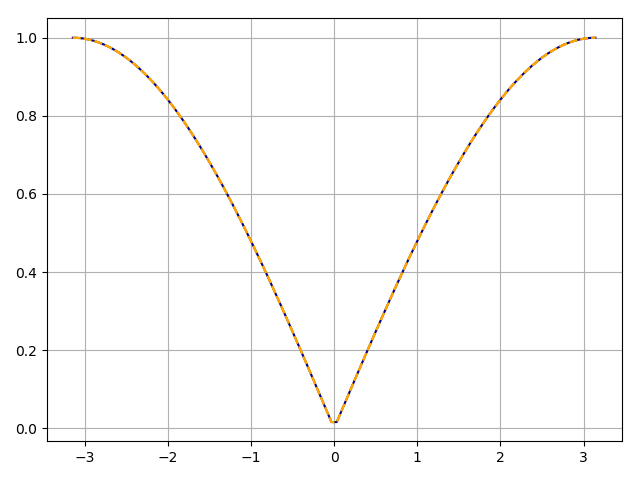
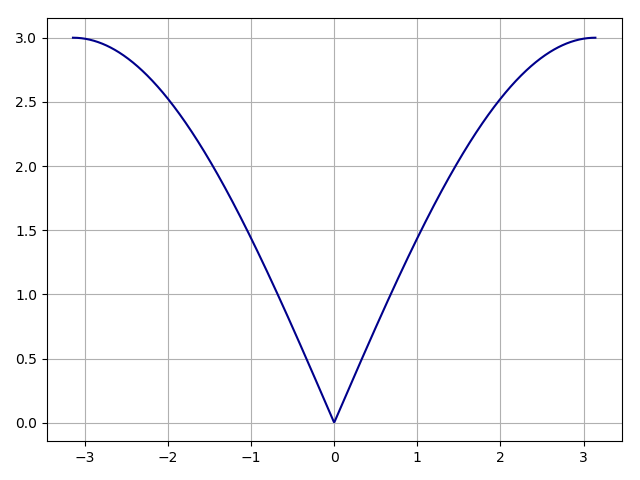
Restructured magnonpolarons_with_base without changing results.

diff --git a/examples/magnonpolarons_with_base.py b/examples/magnonpolarons_with_base.py
@@ -18,7 +18,7 @@ os.chdir("..")
 # # # # # # # # # # # # # # # # # # # # # # # # # # # # # # # # # # # # # # # #
 # Constants
 # # # # # # # # # # # # # # # # # # # # # # # # # # # # # # # # # # # # # # # #
-N = 10  # number of sites per unit cell
+N = 8  # number of sites per unit cell
 a = 12.376e-10  # interatomic distance
 
 # phonon constants
@@ -36,7 +36,7 @@ S = 20
 J = 0.24
 Dz = 0
 Bz = np.zeros(N)
-Bz = 0.8 * np.ones(N)  # 1.314
+Bz = 2.2/(mu_B*g*S) * np.ones(N)  # 1.314
 
 # magnon polarons constants
 Dprime = np.array([[0.0, 0.0, 0.0],
@@ -61,7 +61,7 @@ num_k = 1000
 klim = [-np.pi/(N*a), np.pi/(N*a)]
 
 # positive Bz
-klim = [1e8, np.pi/(N*a)]
+klim = [1e7, np.pi/(N*a)]
 
 # zoom
 # klim = [1.15e9, 1.20e9]
@@ -71,6 +71,14 @@ klim = [1e8, np.pi/(N*a)]
 # main
 # # # # # # # # # # # # # # # # # # # # # # # # # # # # # # # # # # # # # # # #
 def main():
+    dispersion_relation()
+    # magnonPolarons_presence()
+
+
+# # # # # # # # # # # # # # # # # # # # # # # # # # # # # # # # # # # # # # # #
+# Routines
+# # # # # # # # # # # # # # # # # # # # # # # # # # # # # # # # # # # # # # # #
+def dispersion_relation():
     k_arr = np.linspace(*klim, num=num_k)
 
     dim = 16*N
@@ -107,8 +115,14 @@ def main():
     ax.set_xlim(klim)
     try:
         ax.set_ylim(ylim)
+        ax.text(0.97*klim[1], 0.97*ylim[1], "$B_z=%.3f$",
+            horizontalalignment='right', verticalalignment='top')
     except:
         ax.set_ylim(0, np.real(energies).max())
+        ax.text(0.97*klim[1], 0.97*np.real(energies).max(), "$B_z=%.3f$" % Bz[0],
+            horizontalalignment='right', verticalalignment='top',
+            bbox=dict(boxstyle='round', facecolor='white', alpha=1))
+
 
     fig.tight_layout()
     fig.savefig("img/mp_dispersion.png")
@@ -136,63 +150,61 @@ def main():
 def magnonPolarons_presence():
     global N, R, Bprime, Bz
 
-    num_arr = np.arange(2, 10)
-    B0_arr = np.linspace(0.1, .2, num=10)
+    num_arr = np.arange(2, 11)
+    B0_arr = np.linspace(0.1, 2, num=50)
 
     s = np.zeros((num_arr.shape[0], B0_arr.shape[0]))
-    try:
-        for c1, num_sites in enumerate(num_arr):
-            N = num_sites
-            R = a * np.arange(0, N)
-            Bprime = np.zeros((N, 3, 3*N))
-            for j in range(N):
-                Bprime[j,0,3*j] = 3e-9 * 2*np.pi/(N*a)*np.sin(2*np.pi/(N*a)*R[j])  # d(Bx)/dx
-                Bprime[j,1,3*j] = 0.0  # d(By)/dx
-                Bprime[j,2,3*j] = 0.0  # d(Bz)/dx
+    for c1, num_sites in enumerate(num_arr):
+        N = num_sites
+        R = a * np.arange(0, N)
+        Bprime = np.zeros((N, 3, 3*N))
+        for j in range(N):
+            Bprime[j,0,3*j] = 1e-8 * 2*np.pi/(N*a)*np.cos(2*np.pi/(N*a)*R[j])  # d(Bx)/dx
+            Bprime[j,1,3*j] = 0.0  # d(By)/dx
+            Bprime[j,2,3*j] = 0.0  # d(Bz)/dx
 
-                Bprime[j,0,3*j+1] = 0.0  # d(Bx)/dy
-                Bprime[j,1,3*j+1] = 0.0  # d(By)/dy
-                Bprime[j,2,3*j+1] = 0.0  # d(Bz)/dy
+            Bprime[j,0,3*j+1] = 0.0  # d(Bx)/dy
+            Bprime[j,1,3*j+1] = 0.0  # d(By)/dy
+            Bprime[j,2,3*j+1] = 0.0  # d(Bz)/dy
 
-                Bprime[j,0,3*j+2] = 0.0  # d(Bx)/dz
-                Bprime[j,1,3*j+2] = 0.0  # d(By)/dz
-                Bprime[j,2,3*j+2] = 0.0  # d(Bz)/dz
+            Bprime[j,0,3*j+2] = 0.0  # d(Bx)/dz
+            Bprime[j,1,3*j+2] = 0.0  # d(By)/dz
+            Bprime[j,2,3*j+2] = 0.0  # d(Bz)/dz
 
-            klim = [1e8, np.pi/(N*a)]
-            k_arr = np.linspace(*klim, num=num_k)
-            dk = k_arr[1] - k_arr[0]
+        klim = [1e8, np.pi/(N*a)]
+        k_arr = np.linspace(*klim, num=num_k)
+        dk = k_arr[1] - k_arr[0]
 
-            dim = 16*N
-            energies = np.zeros((num_k,dim), dtype=complex)
-            U = np.zeros((num_k,dim,dim), dtype=complex)
-            z = np.zeros((num_k,dim))
-            for c2, B0 in enumerate(B0_arr):
-                Bz = B0 * np.ones(N)
+        dim = 16*N
+        energies = np.zeros((num_k,dim), dtype=complex)
+        U = np.zeros((num_k,dim,dim), dtype=complex)
+        z = np.zeros((num_k,dim))
+        for c2, B0 in enumerate(B0_arr):
+            Bz = B0 * np.ones(N)
 
-                for i, k in enumerate(k_arr):
-                    bosonic_system = BosonicSystem(create_Tmatrix(k), create_Umatrix(k))
-                    energies[i,:], U[i,:,:] = bosonic_system.diagonalize()
-                    for j in range(dim):
-                        z[i,j] = np.sum(np.abs(U[i,:N,j])**2) + np.sum(np.abs(U[i,4*N:5*N,j])**2) + \
-                            np.sum(np.abs(U[i,8*N:9*N,j])**2) + np.sum(np.abs(U[i,12*N:13*N,j])**2)
-
+            for i, k in enumerate(k_arr):
+                bosonic_system = BosonicSystem(create_Tmatrix(k), create_Umatrix(k))
+                energies[i,:], U[i,:,:] = bosonic_system.diagonalize()
                 for j in range(dim):
-                    s[c1,c2] += simps(np.logical_and(0.4 < z[:,j], z[:,j] < 0.6), k_arr)
-    except:
-        print("Failed at: ", N, B0)
+                    z[i,j] = np.sum(np.abs(U[i,:N,j])**2) + np.sum(np.abs(U[i,4*N:5*N,j])**2) + \
+                        np.sum(np.abs(U[i,8*N:9*N,j])**2) + np.sum(np.abs(U[i,12*N:13*N,j])**2)
+
+            for j in range(dim):
+                s[c1,c2] += simps(np.logical_and(0.4 < z[:,j], z[:,j] < 0.6), k_arr)
 
     plt.imshow(np.transpose(np.log(s)), origin="bottom", aspect='auto',
                extent=(num_arr[0], num_arr[-1]+1, B0_arr[0], B0_arr[-1]))
     plt.grid()
     plt.colorbar()
     plt.tight_layout()
-    plt.savefig("img/NvsBz.png")
+    plt.savefig("img/NvsBz_cos(x).png")
     plt.show()
 
+    np.save("data/NvsBz_cos(x).npy", s)
 
 
 # # # # # # # # # # # # # # # # # # # # # # # # # # # # # # # # # # # # # # # #
-# Functions
+# Useful Functions
 # # # # # # # # # # # # # # # # # # # # # # # # # # # # # # # # # # # # # # # #
 def create_Tmatrix(k):
     # alpha = [a{k,1...N}, c{k,1...3*N}, c{-k,1...3*N}]
@@ -371,4 +383,3 @@ def magnon_energy(k, j=0):
 # # # # # # # # # # # # # # # # # # # # # # # # # # # # # # # # # # # # # # # #
 if __name__ == '__main__':
     main()
-    # magnonPolarons_presence()
